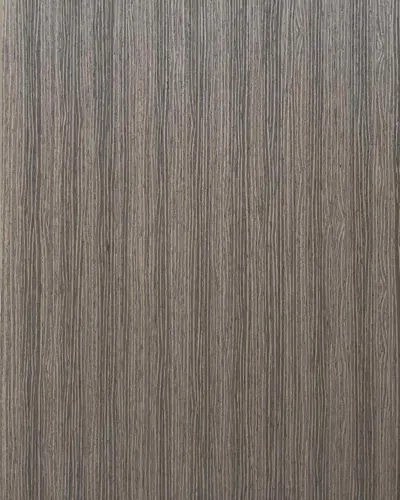
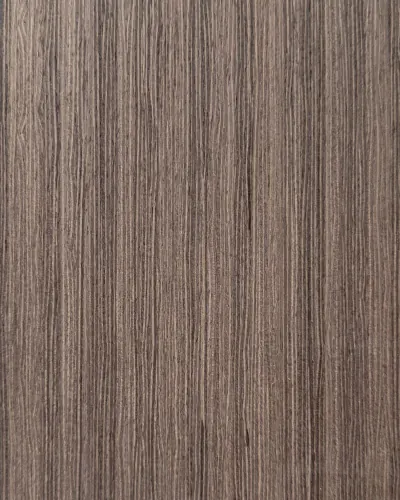
Replace the Dark Wenge swatch with a straightened photo

diff --git a/src/data.js b/src/data.js
@@ -2750,7 +2750,7 @@ export const PRODUCTS = [
     tones: ['cool'],
     species: 'Wenge (Millettia laurentii)',
     idSpecies: 'Wenge (Millettia laurentii)',
-    image: '/assets/image/OSLO DARK WENGE.webp',
+    image: '/assets/image/OSLO DARK WENGE.webp?v=2',
     bestFor: 'Luxury commercial, modern cabinetry, sleek architectural panels',
     idBestFor: 'komersial mewah, kabinet modern, panel arsitektural ramping',
     finish: 'Matte lacquer',
